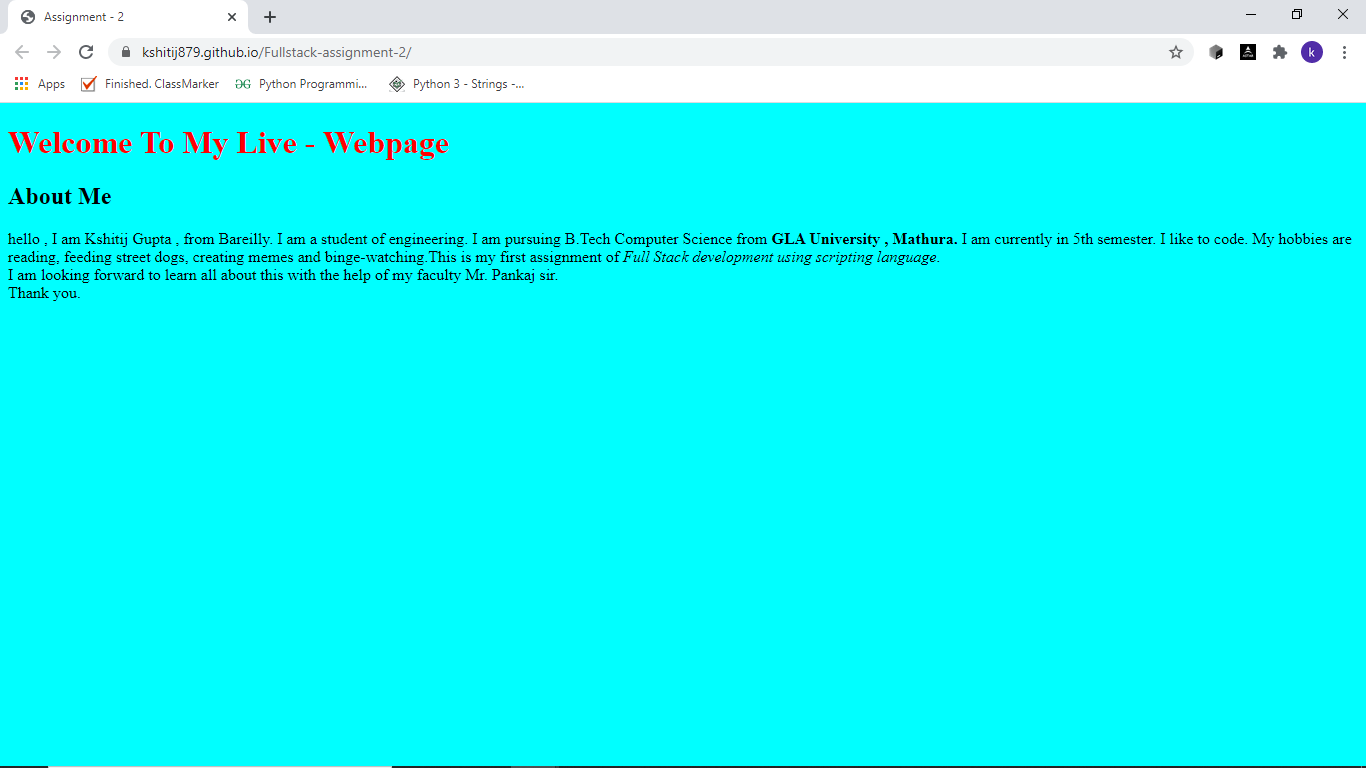
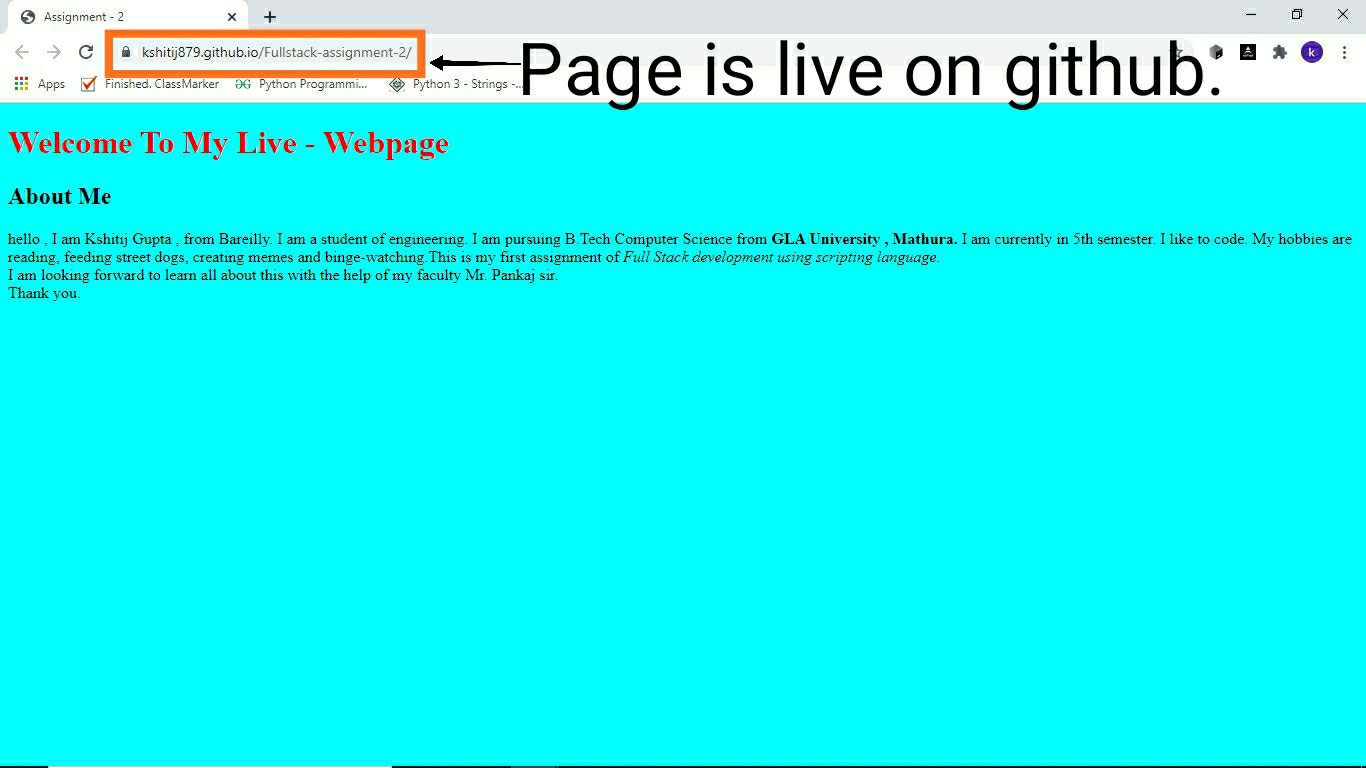
testing practical 2

diff --git a/Practicals/Practical 2/Practical2 .html b/Practicals/Practical 2/Practical2 .html
@@ -2,10 +2,16 @@
 <html lang="en">
 <head>
     <meta charset="UTF-8">
-    <meta name="viewport" content="width=Pr, initial-scale=1.0">
-    <title>Document</title>
+    <meta name="viewport" content="width=device-width, initial-scale=1.0">
+    <title>Practical-2</title>
 </head>
 <body>
-    Practical 2
+    <h2 style="color: red;">Practical-2: Live your list Web Page on Git-Hub.</h2>
+    <h1 style="color: darkgreen;">Welcome to Fullstack Course </h1>
+    <h2>About Course</h2>
+    <p>Front-end web development is everything involved in programming the user interface of a web application. Typically it refers to the Hypertext Markup Language (HTML), Cascading Style Sheets (CSS) and JavaScript portion of web site production as opposed to the database on server-side programming. It encompasses everything from building a simple page of HTML text to creating complex, responsive HTML5 websites designed to be accessed via various different browsers, devices and screen sizes.</p>
+    <h2>Output</h2>
+    <p style="text-align: center;"><b><u>Live page on github</u></p>
+    <img src="https://kshitij879.github.io/Fullstack_practicals/images/Assignment 2.jpg" style="width: 80%;display: block;margin-left: auto;margin-right: auto;"><br><br>
 </body>
 </html>
